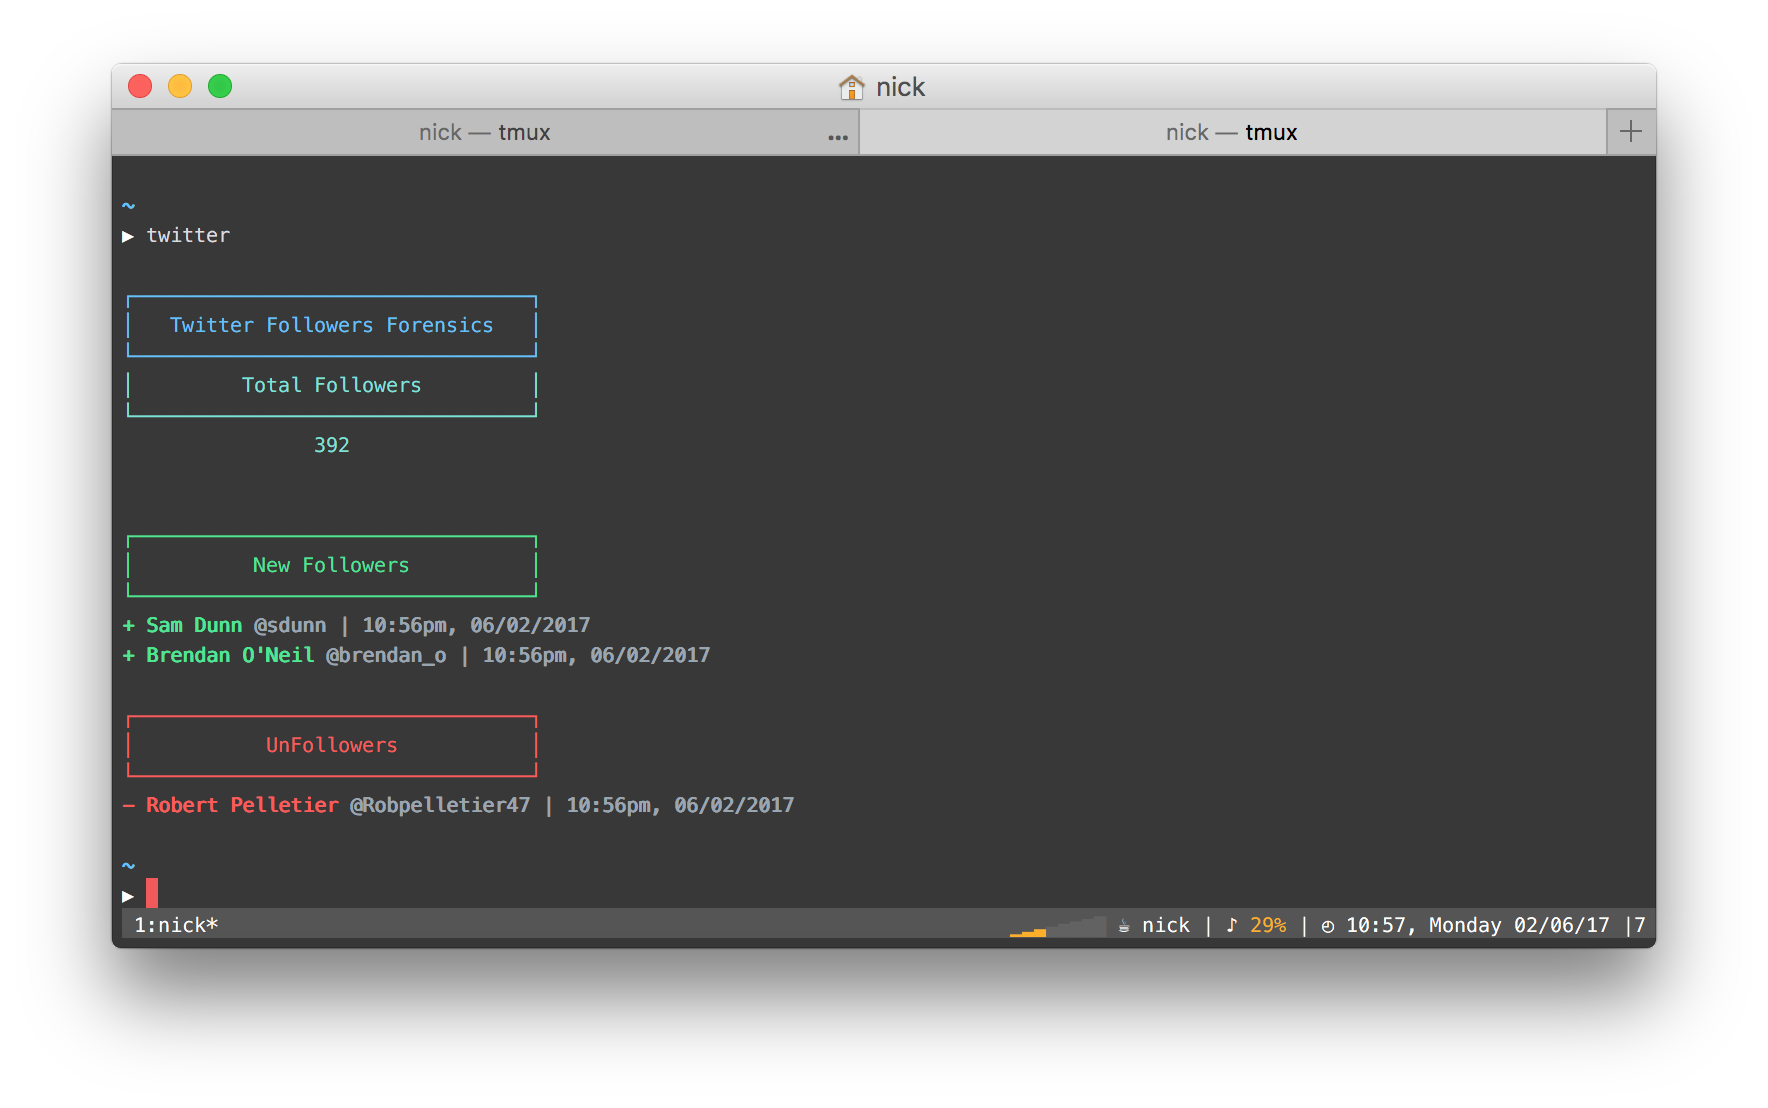
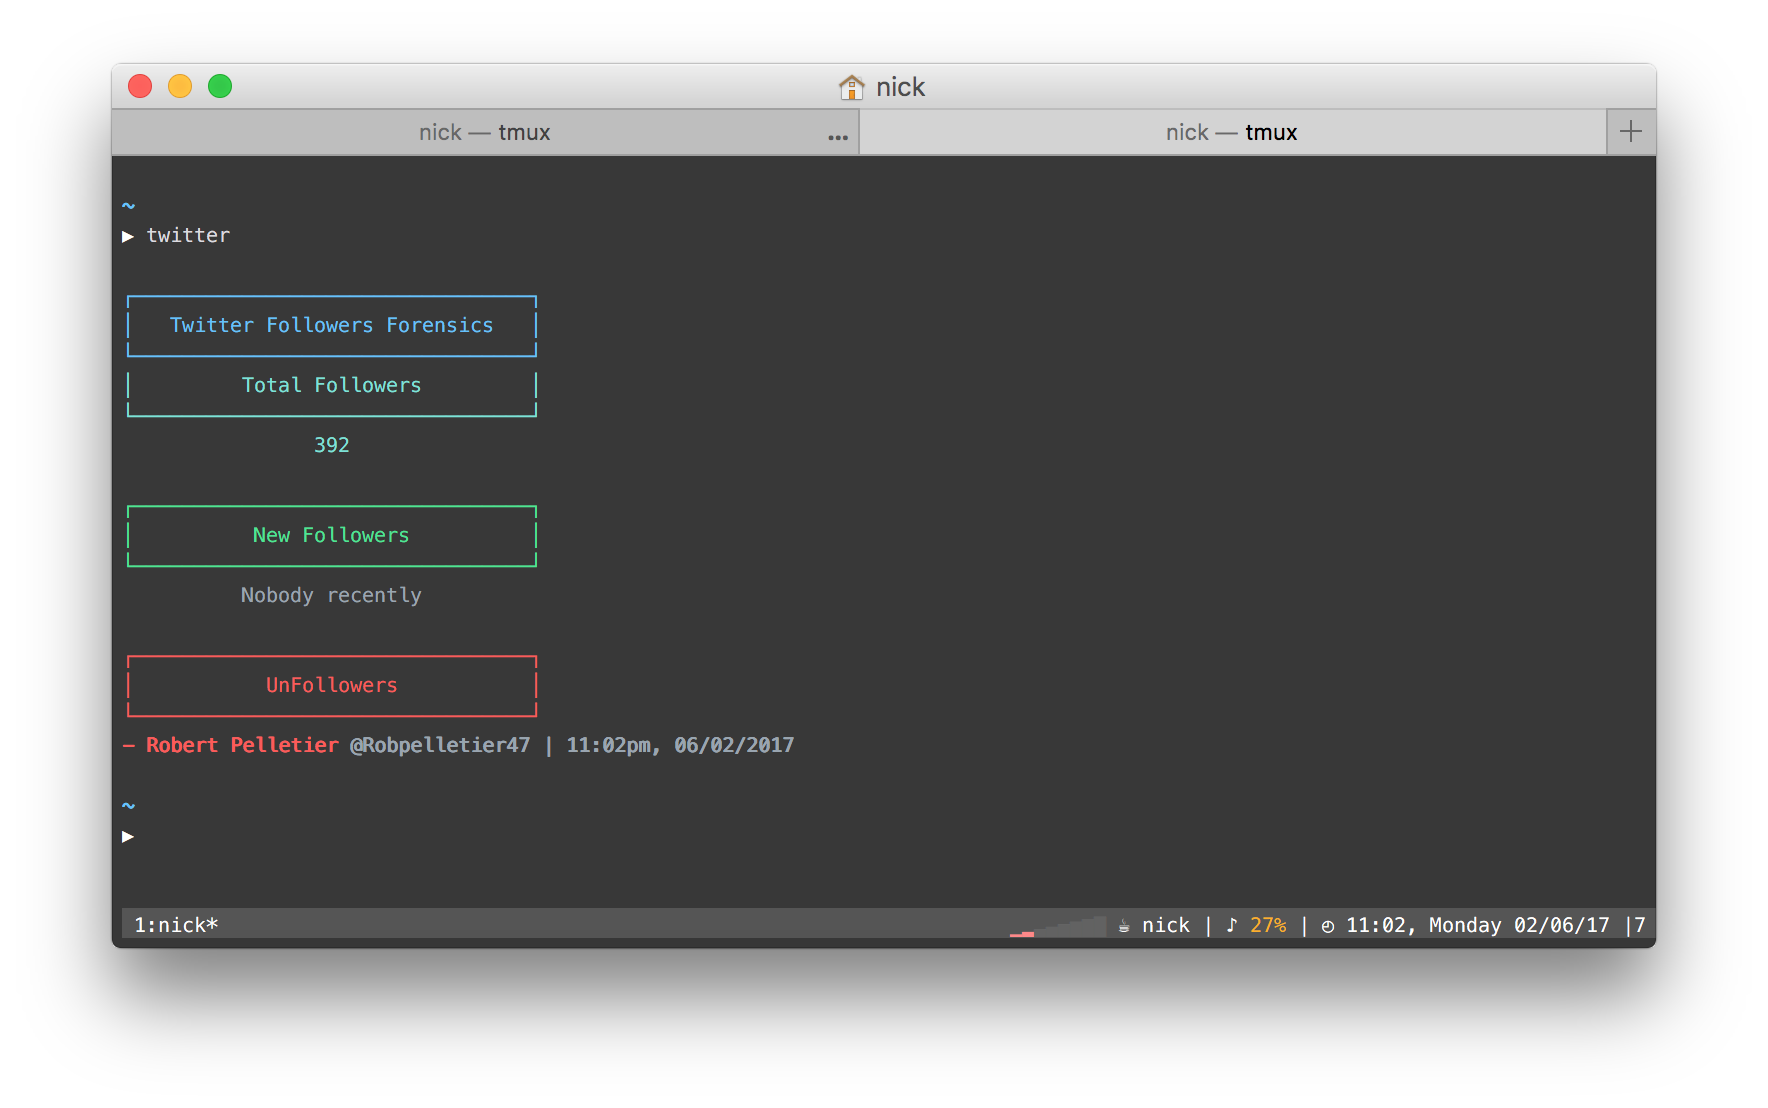
readme steez

Changed region(s): [[0.0622, 0.4603, 0.4355, 0.7365], [0.56, 0.8285, 0.5911, 0.8592], [0.0622, 0.7978, 0.0933, 0.8285]]

diff --git a/report.js b/report.js
@@ -147,7 +147,7 @@ function reportFollowerForensics (totalFollowersCount, diffs, fresh_users) {
 
     console.log(chalk.cyan('│         Total Followers         │'))
     console.log(chalk.cyan('└─────────────────────────────────┘'))
-    console.log(chalk.cyan(`                ${totalFollowersCount}\n`))
+    console.log(chalk.cyan(`                ${totalFollowersCount}`))
 
     if (diffs.new_followers.length === 0 && diffs.lost_followers.length === 0)
       console.log(chalk.gray('        No changes detected'))

diff --git a/README.md b/README.md
@@ -1,12 +1,8 @@
 
-<h1 align="center">
+<p align="center">
 	<br>
-	<br>
-	<img src"assets/example.png">
-	<br>
-	<br>
-	<br>
-</h1>
+	<img src="./assets/example.png">
+</p>
 
 Twitter Forensics
 -----------------
@@ -17,7 +13,29 @@ Usage
 -----
 
 ```
+$ git clone git@github.com:nickzuber/twitter-forensics.git
+$ cd twitter-forensics
+```
+
+Update the configuration constants to match your credentials.
+
+```js
+const MY_TWITTER_USER_ID = 402143571  // Your Twitter user ID
+const MAX_USERS_TO_DISPLAY = 5        // Number of users for forensics reporting
+```
+
+Then just run the script.
+
+```
 $ npm run-script run
+```
+
+Or you can do what I do and create some type of alias for this script.
+
+```bash
+function twitter {
+  node ~/custom_scripts/twitter-forensics
+}
 ```
 
 License
